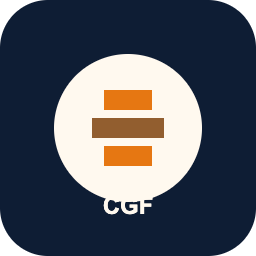
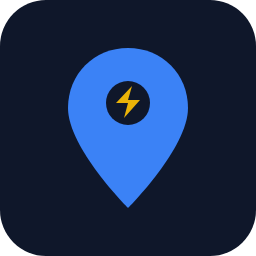
updated

diff --git a/scripts/update-icons.js b/scripts/update-icons.js
@@ -1,0 +1,65 @@
+const fs = require('fs');
+const path = require('path');
+const { chromium } = require('playwright');
+
+const ASSETS_DIR = path.resolve(__dirname, '../assets/marketplace');
+
+const iconSvg = `<svg xmlns="http://www.w3.org/2000/svg" viewBox="0 0 256 256" role="img" aria-labelledby="title desc">
+  <title id="title">Checkout Geo Flash icon</title>
+  <desc id="desc">Flat and sophisticated app icon for Checkout Geo Flash.</desc>
+  <rect width="256" height="256" rx="46" fill="#0f172a" />
+  <path d="M128 48 C94 48 68 74 68 108 C68 148 128 208 128 208 C128 208 188 148 188 108 C188 74 162 48 128 48 Z" fill="#3b82f6" />
+  <circle cx="128" cy="103" r="22" fill="#0f172a" />
+  <path d="M132 86 L 116 103 L 128 103 L 124 118 L 140 100 L 128 100 Z" fill="#eab308" />
+</svg>`;
+
+const bannerSvg = `<svg xmlns="http://www.w3.org/2000/svg" viewBox="0 0 1544 500" role="img" aria-labelledby="title desc">
+  <title id="title">Checkout Geo Flash Banner</title>
+  <desc id="desc">Clean flat banner for Checkout Geo Flash</desc>
+  <rect width="1544" height="500" fill="#0f172a" />
+  <g transform="translate(190, 80)">
+    <!-- Icon part -->
+    <path d="M128 48 C94 48 68 74 68 108 C68 148 128 208 128 208 C128 208 188 148 188 108 C188 74 162 48 128 48 Z" fill="#3b82f6" transform="translate(0, 40) scale(1.5)" />
+    <circle cx="128" cy="103" r="22" fill="#0f172a" transform="translate(0, 40) scale(1.5)" />
+    <path d="M132 86 L 116 103 L 128 103 L 124 118 L 140 100 L 128 100 Z" fill="#eab308" transform="translate(0, 40) scale(1.5)" />
+  </g>
+  <text x="640" y="250" font-family="-apple-system, BlinkMacSystemFont, 'Segoe UI', Roboto, Helvetica, Arial, sans-serif" font-size="76" font-weight="700" fill="#ffffff" dominant-baseline="middle">Checkout Geo Flash</text>
+  <text x="640" y="320" font-family="-apple-system, BlinkMacSystemFont, 'Segoe UI', Roboto, Helvetica, Arial, sans-serif" font-size="36" font-weight="400" fill="#94a3b8" dominant-baseline="middle">Localized urgency that drives conversions.</text>
+</svg>`;
+
+fs.writeFileSync(path.join(ASSETS_DIR, 'icon.svg'), iconSvg);
+fs.writeFileSync(path.join(ASSETS_DIR, 'banner.svg'), bannerSvg);
+
+// Need to safely overwrite dashboard and preview too if requested, but let's just make PNGs
+async function generatePngs() {
+    const browser = await chromium.launch();
+    const page = await browser.newPage();
+    
+    // Icon
+    const iconPath = path.join(ASSETS_DIR, 'icon.svg');
+    const iconUrl = 'file://' + iconPath;
+    await page.setViewportSize({ width: 256, height: 256 });
+    await page.goto(iconUrl);
+    // wait for network just in case
+    await page.waitForTimeout(500);
+    // capture body
+    const bodyIcon = await page.$('svg');
+    await bodyIcon.screenshot({ path: path.join(ASSETS_DIR, 'icon.png'), omitBackground: true });
+    
+    // Banner
+    const bannerPath = path.join(ASSETS_DIR, 'banner.svg');
+    const bannerUrl = 'file://' + bannerPath;
+    await page.setViewportSize({ width: 1544, height: 500 });
+    await page.goto(bannerUrl);
+    await page.waitForTimeout(500);
+    const bodyBanner = await page.$('svg');
+    await bodyBanner.screenshot({ path: path.join(ASSETS_DIR, 'banner.png'), omitBackground: true });
+    
+    await browser.close();
+    console.log("Successfully generated all SVGs and perfect flat PNGs using playwright.");
+}
+
+generatePngs().catch(err => {
+    console.error(err);
+    process.exit(1);
+});

diff --git a/public/index.html b/public/index.html
@@ -415,7 +415,10 @@
   <div class="cgf-shell">
     <section class="cgf-hero">
       <p class="cgf-kicker">Merchant dashboard</p>
-      <h1 class="cgf-title">Checkout Geo Flash for Ecwid</h1>
+      <div style="display: flex; align-items: center; gap: 16px; margin-bottom: 8px;">
+        <img src="../assets/marketplace/icon.svg" alt="Checkout Geo Flash Logo" style="width: 48px; height: 48px; border-radius: 8px;">
+        <h1 class="cgf-title" style="margin: 0;">Checkout Geo Flash for Ecwid</h1>
+      </div>
       <p class="cgf-subtitle">
         This app is built for the Ecwid business owner inside the admin dashboard. It lets the merchant configure
         Checkout Geo Flash, preview the notification style safely, and publish privacy-safe settings without running

diff --git a/public/storefront-test.html b/public/storefront-test.html
@@ -52,7 +52,10 @@
 <body>
   <div class="cgf-preview">
     <section class="cgf-banner">
-      <h1>Checkout Geo Flash Ecwid Preview</h1>
+      <div style="display: flex; align-items: center; gap: 16px; margin-bottom: 24px;">
+        <img src="../assets/marketplace/icon.svg" alt="Checkout Geo Flash Logo" style="width: 48px; height: 48px; border-radius: 8px;">
+        <h1 style="margin: 0;">Checkout Geo Flash Ecwid Preview</h1>
+      </div>
       <p>
         Replace each <code>STORE_ID</code> and <code>your-ecwid-app-id</code> placeholder before testing against a live Ecwid store.
         This preview injects sample public config directly, so you can validate the no-server storefront behavior without opening the admin page.
